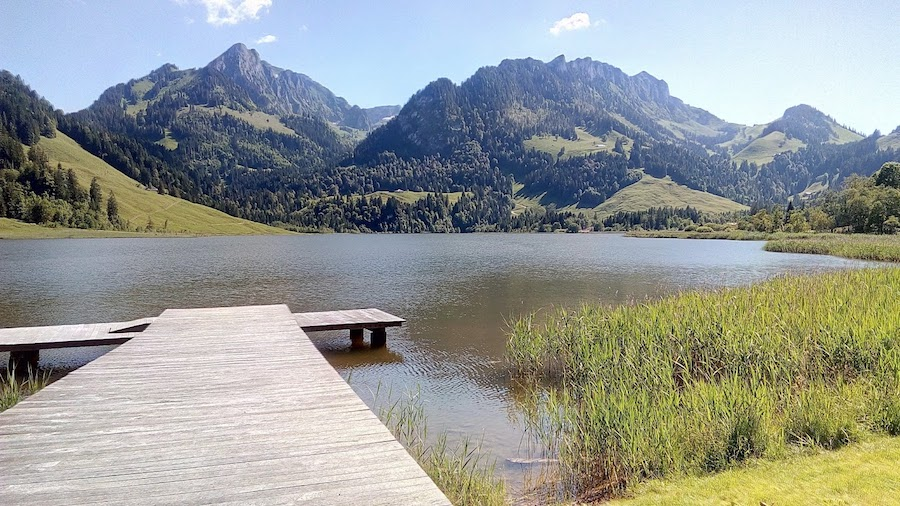
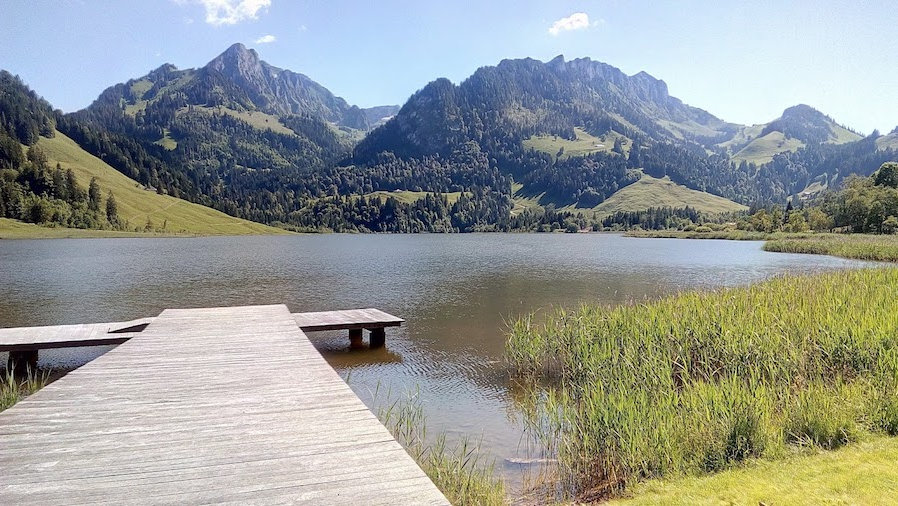
Update contact image, crop Schwarzsee photo to 898, hide comment box title

diff --git a/style/style.css b/style/style.css
@@ -134,6 +134,13 @@ ol li
     border: 0;
 }
 
+#HCB_comment_box > h3
+{
+    height: 0;
+    padding: 0;
+    visibility: hidden;
+}
+
 .search
 {
     color: #5D5D5D;
